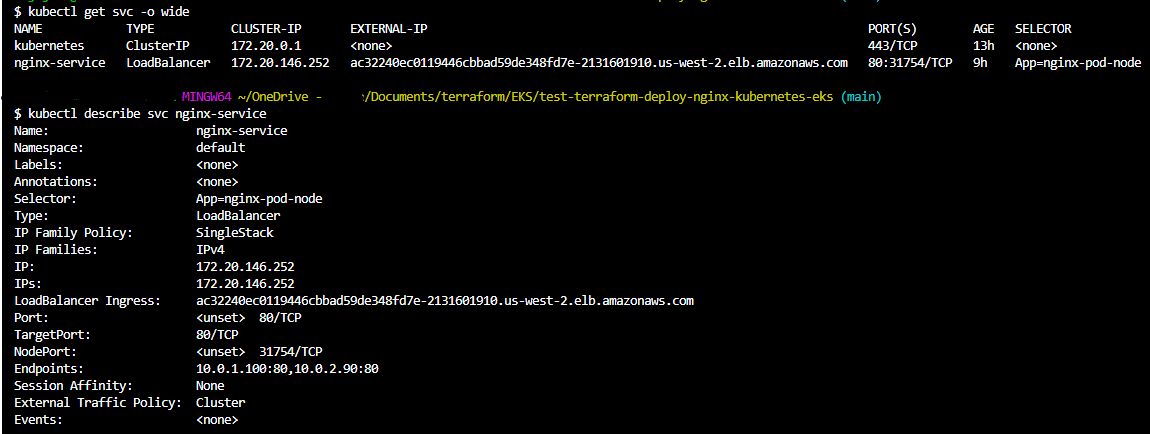
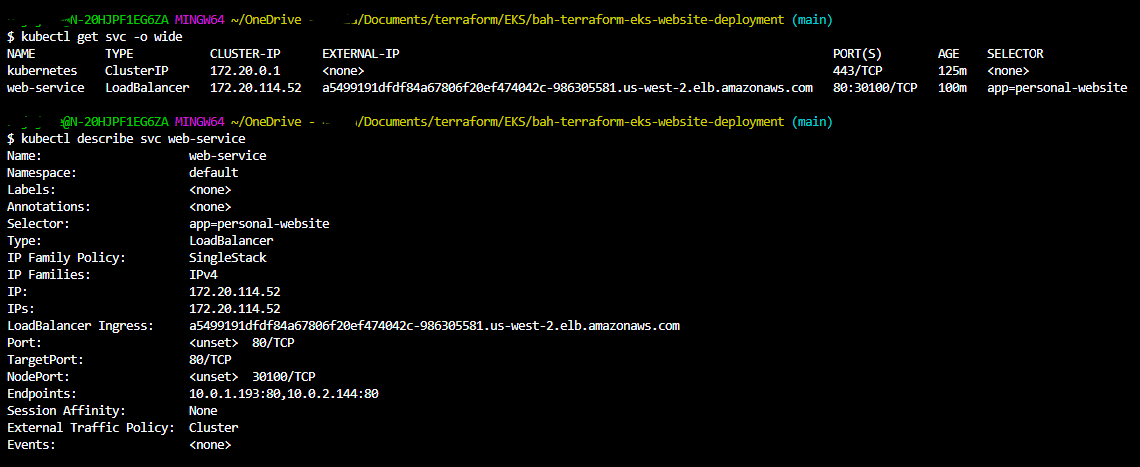
add changes

Changed region(s): [[0.0, 0.0, 1.0, 0.9885]]

diff --git a/README.md b/README.md
@@ -218,26 +218,26 @@ This terraform github repo deploys simple nginx application in EKS cluster
 2. k8s service=LoadBalancer:
    ```
    $ kubectl get svc -o wide
-   NAME            TYPE           CLUSTER-IP       EXTERNAL-IP                                                               PORT(S)        AGE   SELECTOR
-   kubernetes      ClusterIP      172.20.0.1       <none>                                                                    443/TCP        13h   <none>
-   nginx-service   LoadBalancer   172.20.146.252   ac32240ec0119446cbbad59de348fd7e-2131601910.us-west-2.elb.amazonaws.com   80:31754/TCP   9h    App=nginx-pod-node
-   
-   $ kubectl describe svc nginx-service 
-   Name:                     nginx-service
+   NAME          TYPE           CLUSTER-IP      EXTERNAL-IP                                                              PORT(S)        AGE    SELECTOR
+   kubernetes    ClusterIP      172.20.0.1      <none>                                                                   443/TCP        125m   <none>
+   web-service   LoadBalancer   172.20.114.52   a5499191dfdf84a67806f20ef474042c-986305581.us-west-2.elb.amazonaws.com   80:30100/TCP   100m   app=personal-website
+      
+   $ kubectl describe svc web-service
+   Name:                     web-service
    Namespace:                default
    Labels:                   <none>
    Annotations:              <none>
-   Selector:                 App=nginx-pod-node
+   Selector:                 app=personal-website
    Type:                     LoadBalancer
    IP Family Policy:         SingleStack
    IP Families:              IPv4
-   IP:                       172.20.146.252
-   IPs:                      172.20.146.252
-   LoadBalancer Ingress:     ac32240ec0119446cbbad59de348fd7e-2131601910.us-west-2.elb.amazonaws.com
+   IP:                       172.20.114.52
+   IPs:                      172.20.114.52
+   LoadBalancer Ingress:     a5499191dfdf84a67806f20ef474042c-986305581.us-west-2.elb.amazonaws.com
    Port:                     <unset>  80/TCP
    TargetPort:               80/TCP
-   NodePort:                 <unset>  31754/TCP
-   Endpoints:                10.0.1.100:80,10.0.2.90:80
+   NodePort:                 <unset>  30100/TCP
+   Endpoints:                10.0.1.193:80,10.0.2.144:80
    Session Affinity:         None
    External Traffic Policy:  Cluster
    Events:                   <none>
@@ -250,29 +250,5 @@ This terraform github repo deploys simple nginx application in EKS cluster
 * Verify access to NGINX application using browser or 'curl' command
 
 
-**Step 13: Access NGINX using 'curl' & browser**
 
-* Access the NBINX server, confirm load balance fucntionality provided by k8s service
-* NBINX server displays POD_NAME, NODE_NAME, POD_NAMESPACE & POD_IP
-
-  ```
-  $ curl -s ac32240ec0119446cbbad59de348fd7e-2131601910.us-west-2.elb.amazonaws.com
-  Welcome to POD:nginx-b4988fd99-pk2cz NODE:ip-10-0-2-251.us-west-2.compute.internal NAMESPACE:default POD_IP:10.0.2.90
-  
-  $ curl -s ac32240ec0119446cbbad59de348fd7e-2131601910.us-west-2.elb.amazonaws.com
-  Welcome to POD:nginx-b4988fd99-5hvj8 NODE:ip-10-0-1-118.us-west-2.compute.internal NAMESPACE:default POD_IP:10.0.1.100
-  
-  $ curl -s ac32240ec0119446cbbad59de348fd7e-2131601910.us-west-2.elb.amazonaws.com
-  Welcome to POD:nginx-b4988fd99-pk2cz NODE:ip-10-0-2-251.us-west-2.compute.internal NAMESPACE:default POD_IP:10.0.2.90
-  
-  $ curl -s ac32240ec0119446cbbad59de348fd7e-2131601910.us-west-2.elb.amazonaws.com
-  Welcome to POD:nginx-b4988fd99-pk2cz NODE:ip-10-0-2-251.us-west-2.compute.internal NAMESPACE:default POD_IP:10.0.2.90
-  
-  $ curl -s ac32240ec0119446cbbad59de348fd7e-2131601910.us-west-2.elb.amazonaws.com
-  Welcome to POD:nginx-b4988fd99-pk2cz NODE:ip-10-0-2-251.us-west-2.compute.internal NAMESPACE:default POD_IP:10.0.2.90
-  
-  $ curl -s ac32240ec0119446cbbad59de348fd7e-2131601910.us-west-2.elb.amazonaws.com
-  Welcome to POD:nginx-b4988fd99-5hvj8 NODE:ip-10-0-1-118.us-west-2.compute.internal NAMESPACE:default POD_IP:10.0.1.100
-
-  ```
-  ![5](https://github.com/bijubayarea/bah-terraform-eks-website-deployment/blob/main/images/5.png)
+  ![5](https://github.com/bijubayarea/bah-terraform-eks-website-deployment/blob/main/images/6.png)
